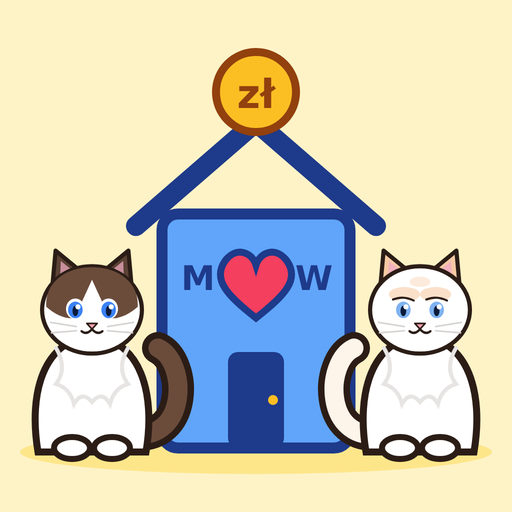
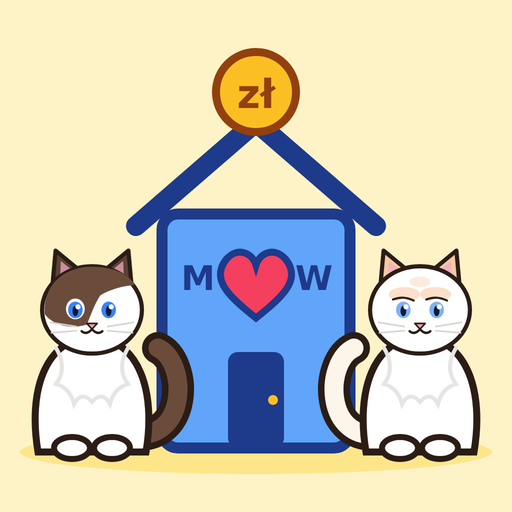
Ikona: ciemny kot z łatą na jednej połowie pyszczka
Claude-Session: https://claude.ai/code/session_016PLM6EYn5YpVWWzTSkDRRn

Changed region(s): [[0.0625, 0.5312, 0.2812, 0.6562]]

diff --git a/sw.js b/sw.js
@@ -1,7 +1,7 @@
 /* Budżet M&W – service worker: the app opens without internet.
    index.html: network first (so updates arrive), cached copy when offline.
    Firebase SDK (versioned URLs): cache first. Firestore/Auth traffic is never touched. */
-const CACHE = 'budzet-mw-v4';
+const CACHE = 'budzet-mw-v5';
 const SDK = 'https://www.gstatic.com/firebasejs/10.14.1/';
 const SHELL = ['./', './index.html', './manifest.json', './icon-192.png', './icon-512.png', './apple-touch-icon.png'];
 const SDK_FILES = ['firebase-app.js', 'firebase-auth.js', 'firebase-firestore.js'].map(f => SDK + f);

diff --git a/index.html b/index.html
@@ -9,8 +9,8 @@
 <meta name="apple-mobile-web-app-title" content="Budżet M&amp;W">
 <title>Budżet M&amp;W</title>
 <link rel="manifest" href="manifest.json">
-<link rel="icon" href="icon-192.png?v=4">
-<link rel="apple-touch-icon" href="apple-touch-icon.png?v=4">
+<link rel="icon" href="icon-192.png?v=5">
+<link rel="apple-touch-icon" href="apple-touch-icon.png?v=5">
 <style>
 /* Layout: one-column mobile ledger — navy header, white cards on cool grey, pastel category blocks, fixed bottom tab bar. Single light theme by choice (matches the original app). */
 :root{
